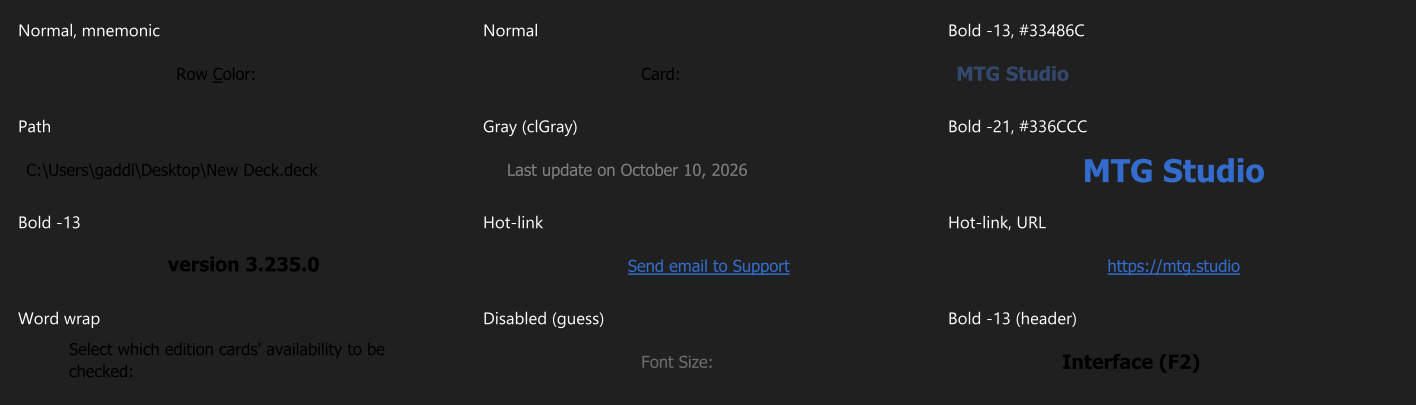
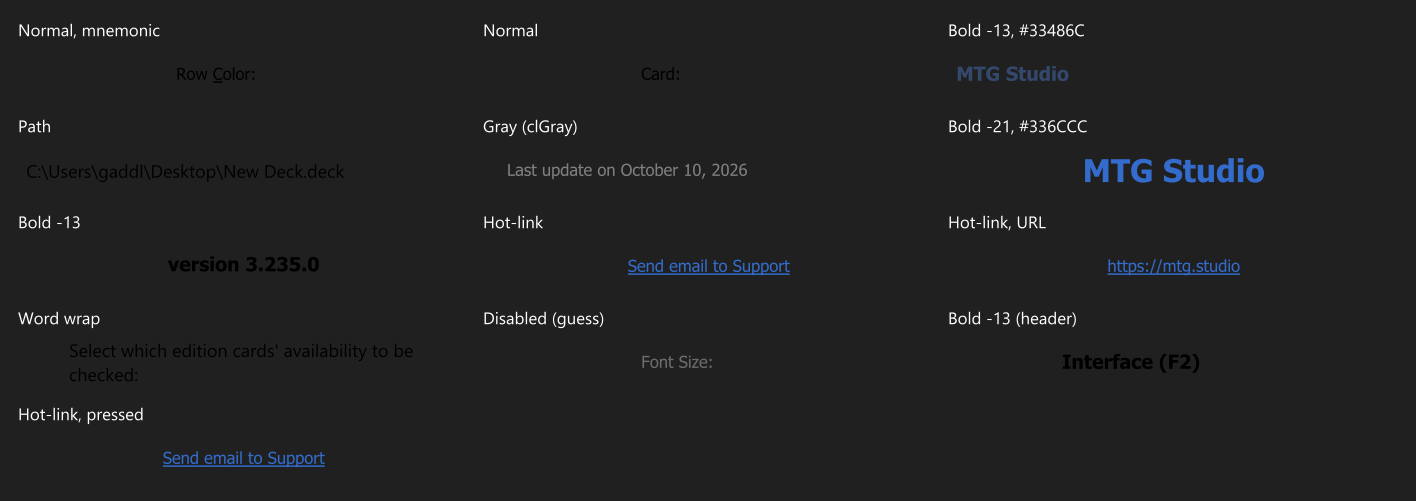
looks: Windows label draws the default-font labels in Segoe UI, adds the pressed link
The v3 labels that set ParentFont to False without a Style.Font of their own (the Deck Properties file name and the Missing Set Cards description) draw DevExpress's default Segoe UI 9 pt, not Tahoma: the two long labels now match the captures to 2 px instead of 19 px. The pressed-link grab of About is pixel-identical to its rest grab (no difference at all), so the sheet adds that cell against the grab's crop.

diff --git a/scripts/looks_ref_a/lbl4.py b/scripts/looks_ref_a/lbl4.py
@@ -1,0 +1,23 @@
+# Round 4 group a: the label sheet with the pressed link of the live state grab as cell 12 (it equals the rest crop).
+import sys,os; sys.path.insert(0,os.path.dirname(os.path.abspath(__file__)))
+from lc import *
+cols,cw,ch=3,300,34
+# cell: (src, rect)
+S={0:('options-08-grids@1x.png',(224,73,91,17)),1:('search-search@1x.png',(20,47,91,17)),2:('deck-properties@1x.png',(56,34,291,20)),3:('deck-properties@1x.png',(56,55,291,17)),4:('deck-legality@1x.png',(103,451,270,17)),5:('help-about@1x.png',(19,63,202,30)),6:('help-about@1x.png',(19,89,202,22)),7:('help-about@1x.png',(16,271,205,17)),8:('help-about@1x.png',(19,294,202,17)),9:('reports-missing-set-cards@1x.png',(16,39,234,34)),12:(R+'ref/windows/states/label-link-pressed-about-support@1x.png',(16,271,205,17))}
+ref=new_ref(13,cols,cw,ch)
+rects={}
+for i,(src,r) in S.items():
+    # the cell box is centred like the holder (holder is the control box)
+    rects[i]=place(ref,i,cols,cw,ch,src,r)
+ref.save(R+'ref/windows/label.png')
+ours=Image.open(R+'windows/label.png').convert('RGB')
+def ink(im,rect,thr=150):
+    x,y,w,h=rect;bg=im.getpixel((x,y))
+    xs=[];ys=[]
+    for yy in range(h):
+        for xx in range(w):
+            if sum(abs(a-b) for a,b in zip(im.getpixel((x+xx,y+yy)),bg))>thr: xs.append(xx);ys.append(yy)
+    return (min(xs),max(xs),min(ys),max(ys)) if xs else None
+for i,r in rects.items():
+    print(i,r,'ink ours',ink(ours,r),'ref',ink(ref,r))
+    sidebyside(ours,ref,r,OUT+'cmp_l%d.png'%i,S=3)
